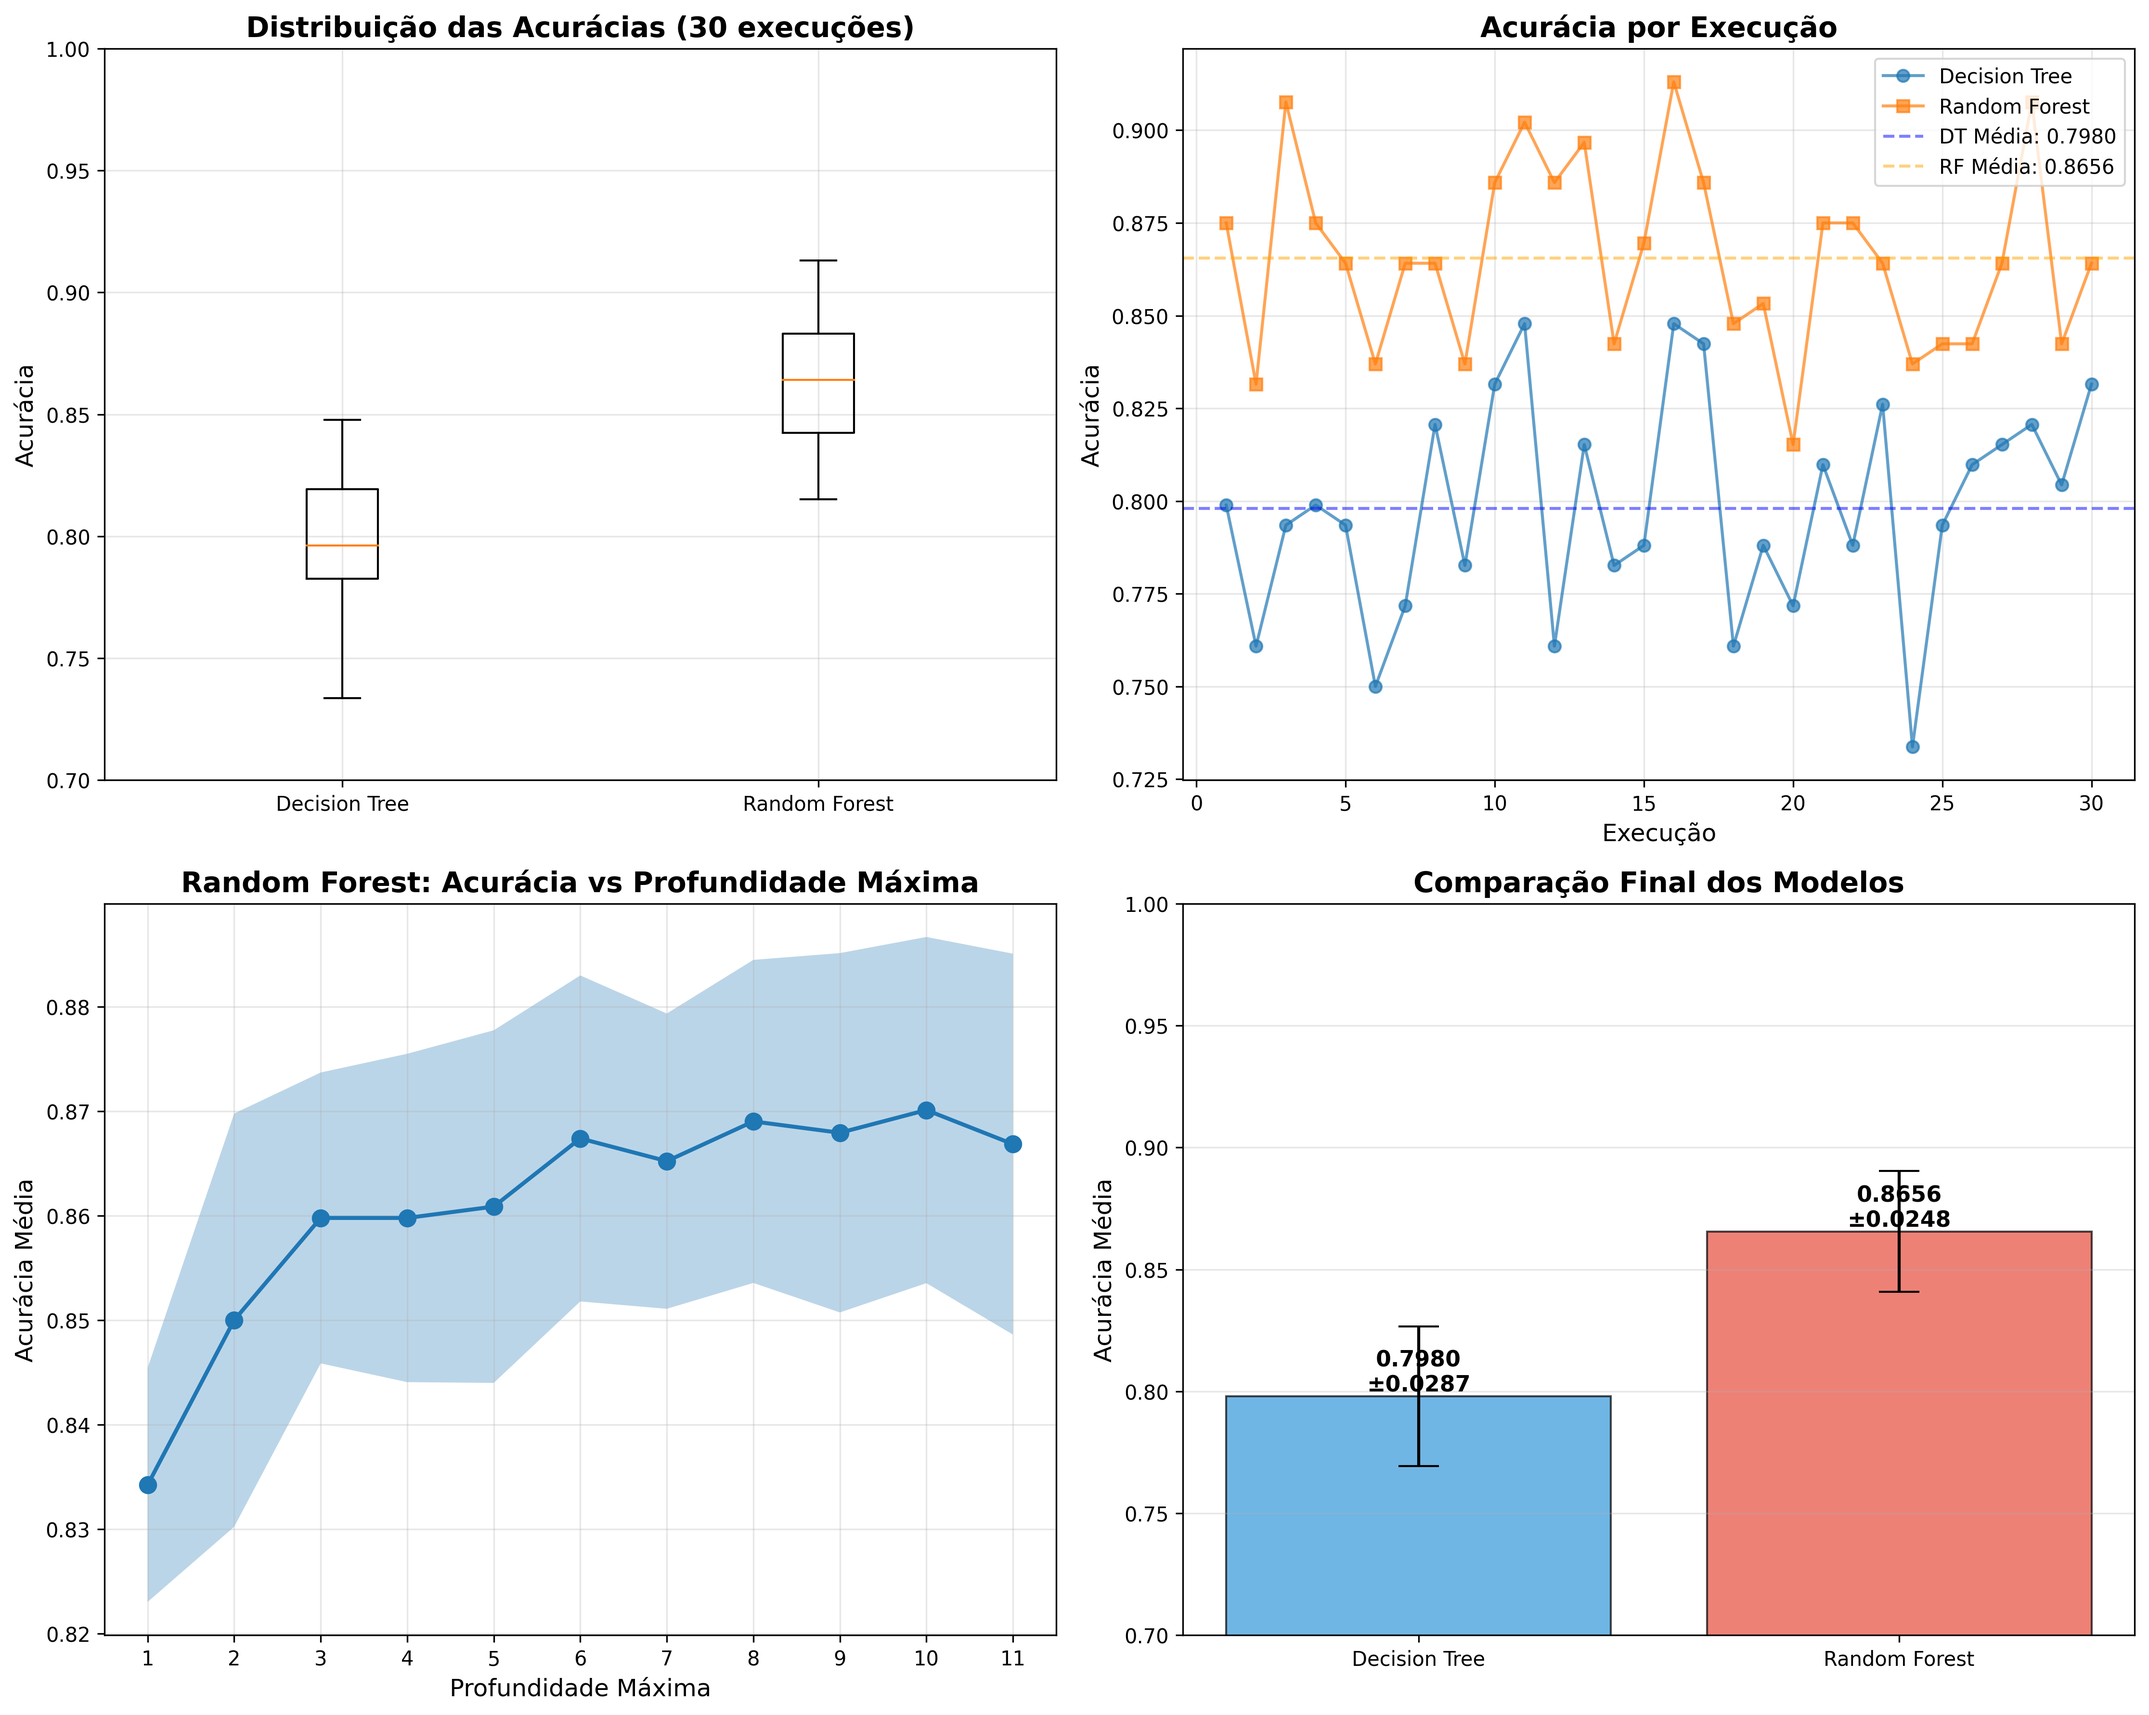
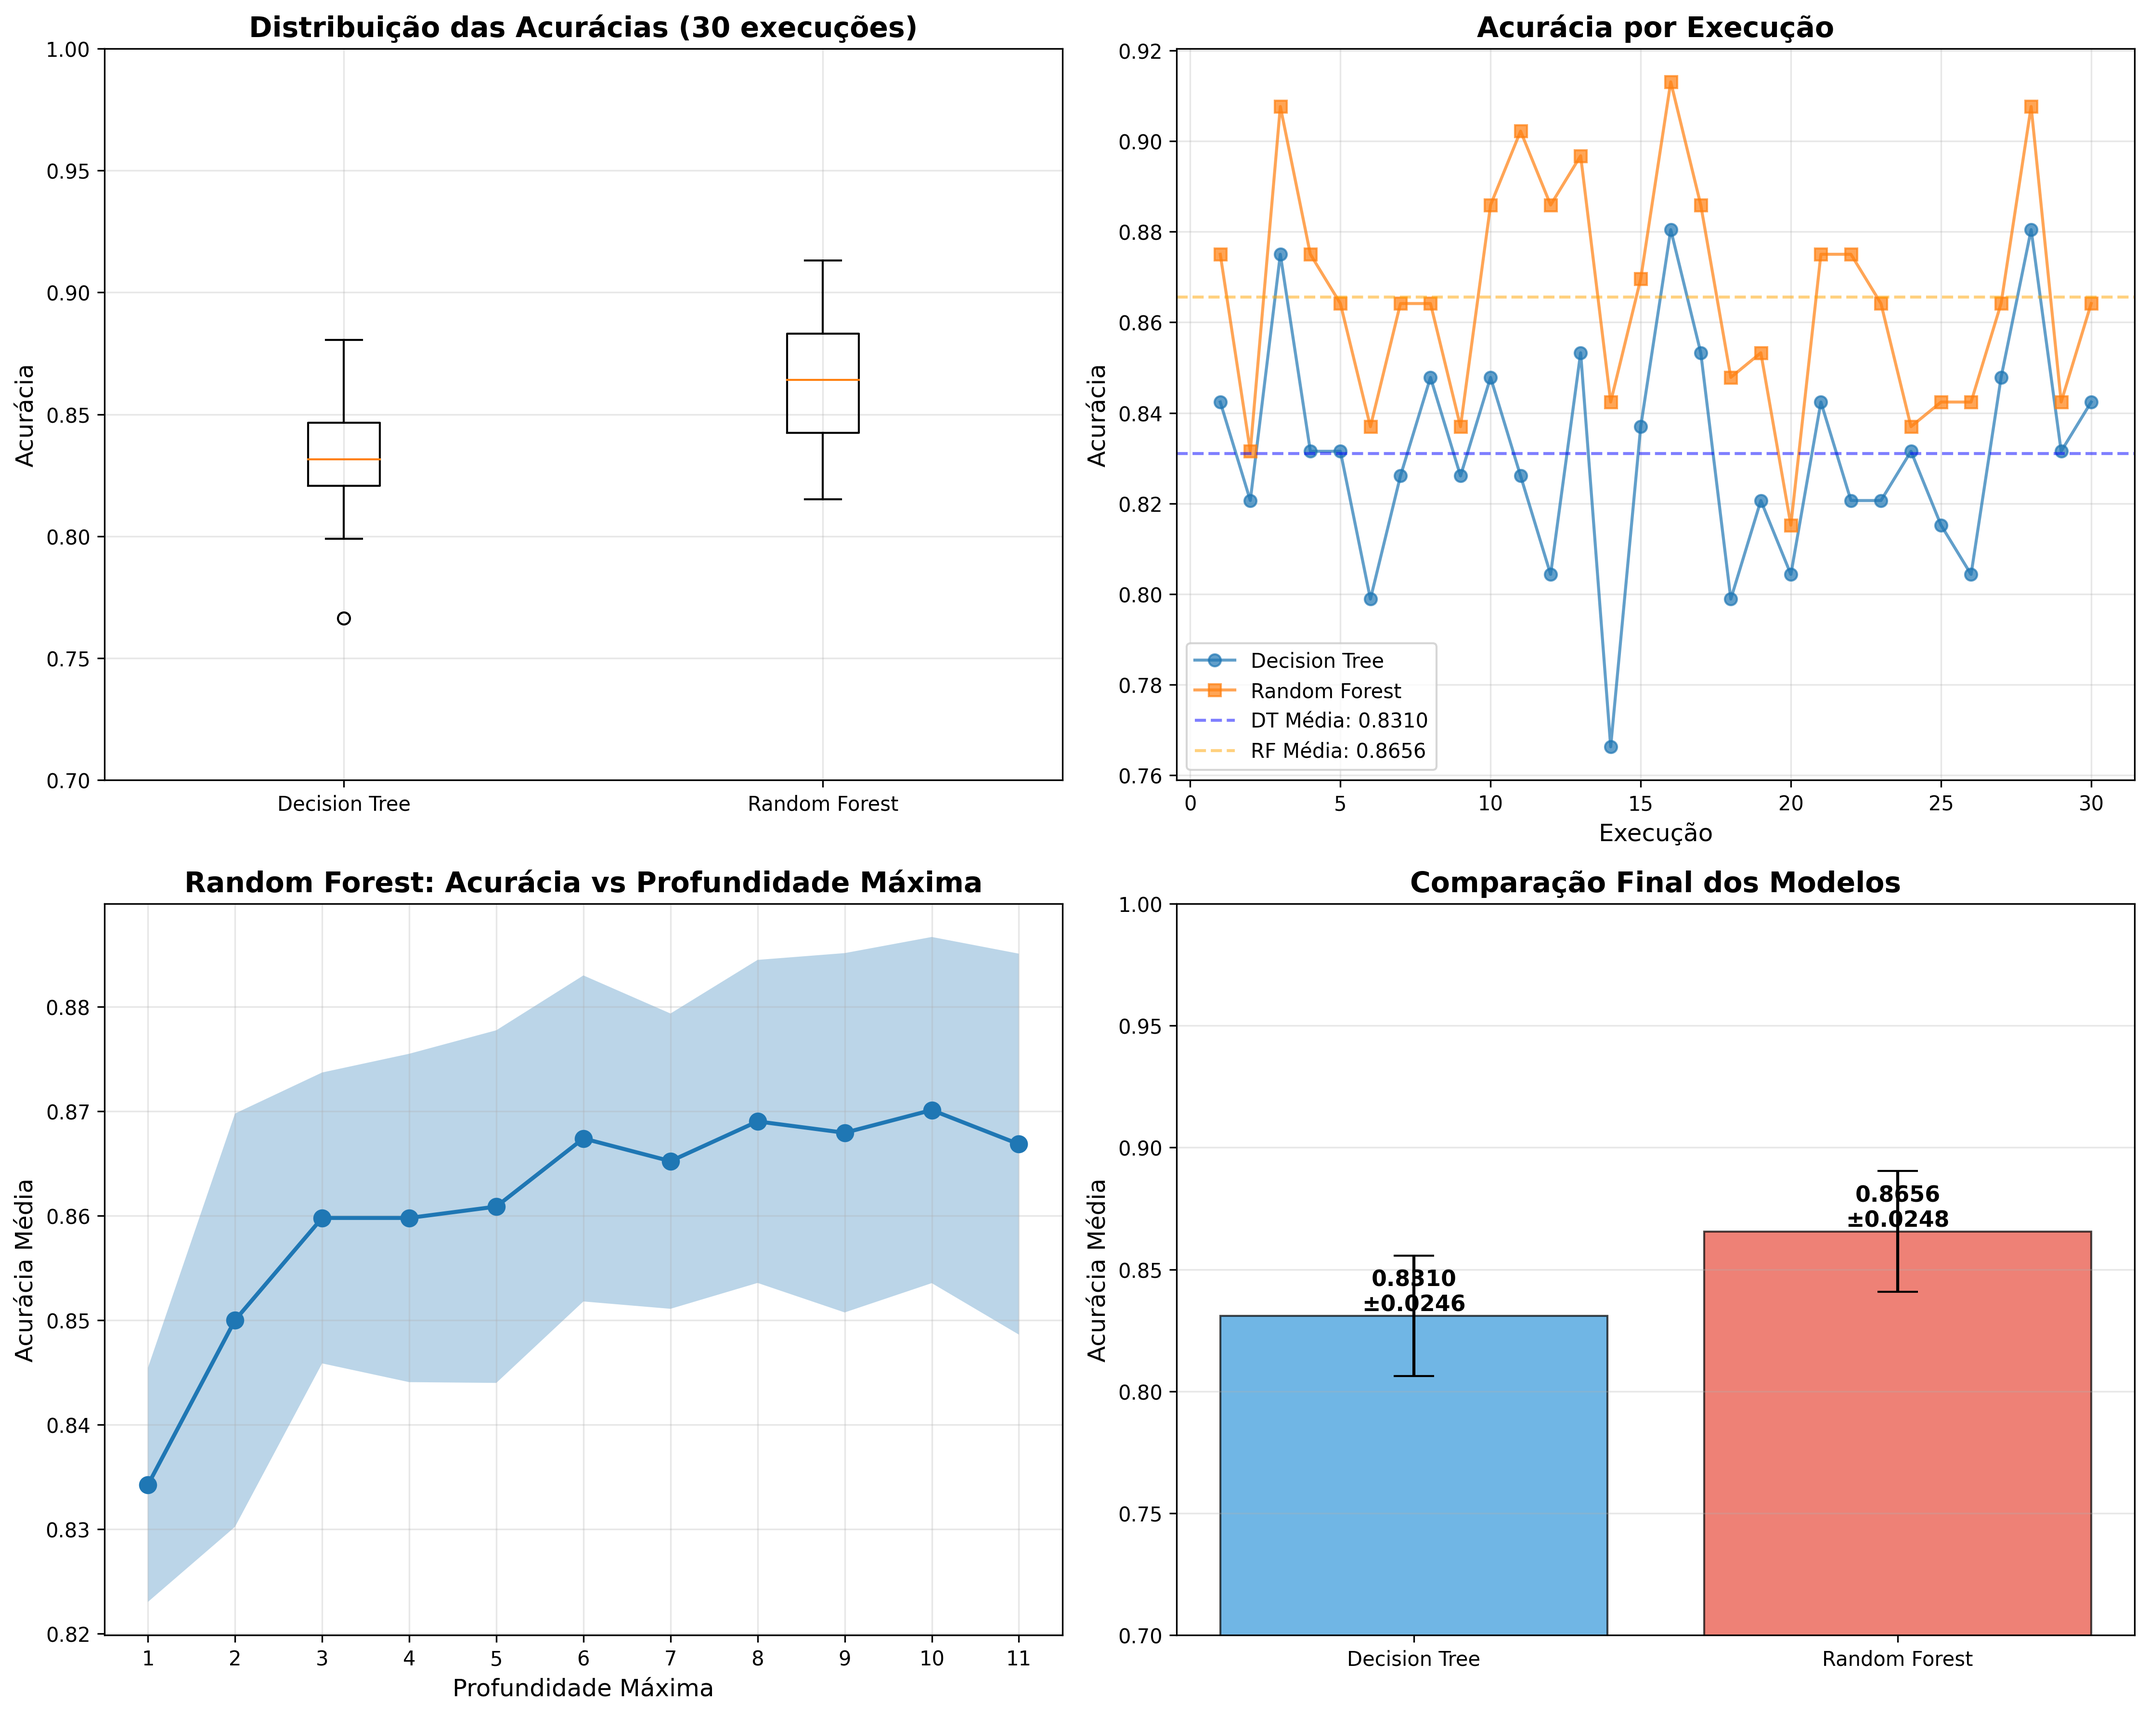
trabalho 10 - correcao das arvores de decisao com max depth igual a 5

diff --git a/trabalho_pratico_10/arvore-decisao.py b/trabalho_pratico_10/arvore-decisao.py
@@ -8,6 +8,8 @@ from sklearn.metrics import accuracy_score
 import matplotlib.pyplot as plt
 import seaborn as sns
 
+from sklearn.tree import plot_tree
+
 # Configuração para reproducibilidade
 np.random.seed(42)
 
@@ -56,7 +58,7 @@ for i in range(n_executions):
     )
     
     # Treinar Decision Tree
-    dt_classifier = DecisionTreeClassifier(random_state=i)
+    dt_classifier = DecisionTreeClassifier(max_depth=5)
     dt_classifier.fit(X_train, y_train)
     
     # Fazer predições
@@ -235,6 +237,13 @@ print(f"  • Status: {'✓ ALCANÇADO' if abs(rf_mean - 0.87) <= 0.02 else '✗
 
 print(f"\nMelhor Profundidade (Random Forest): {max_depths[np.argmax(depth_accuracies_mean)]}")
 print(f"Acurácia na melhor profundidade: {max(depth_accuracies_mean):.4f}")
+
+# Após treinar uma árvore
+plt.figure(figsize=(20,10))
+plot_tree(dt_classifier, feature_names=X.columns, 
+          class_names=['Sem Doença', 'Com Doença'], 
+          filled=True, fontsize=10)
+plt.show()
 
 print("\n" + "=" * 60)
 print("ANÁLISE CONCLUÍDA COM SUCESSO!")
